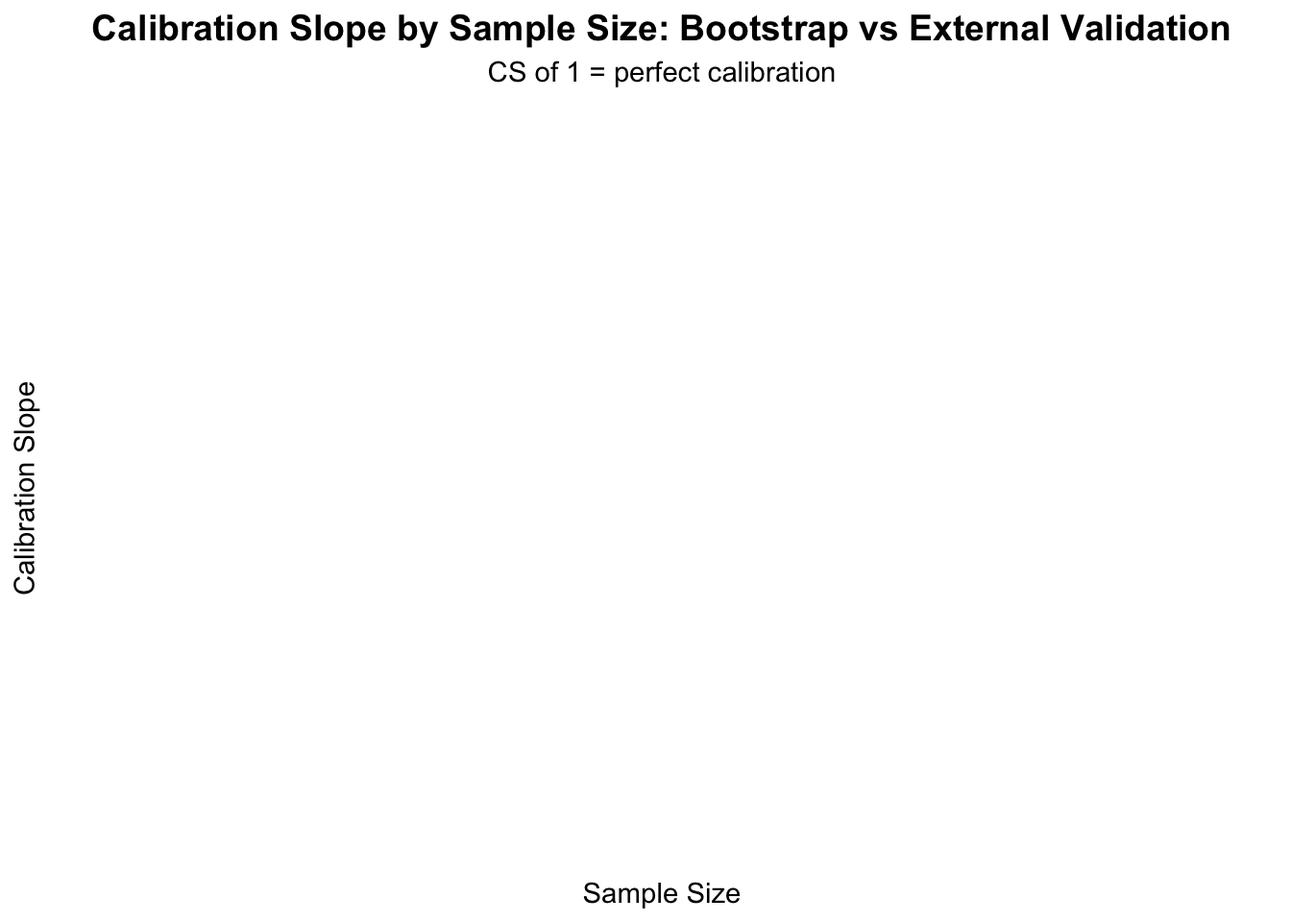
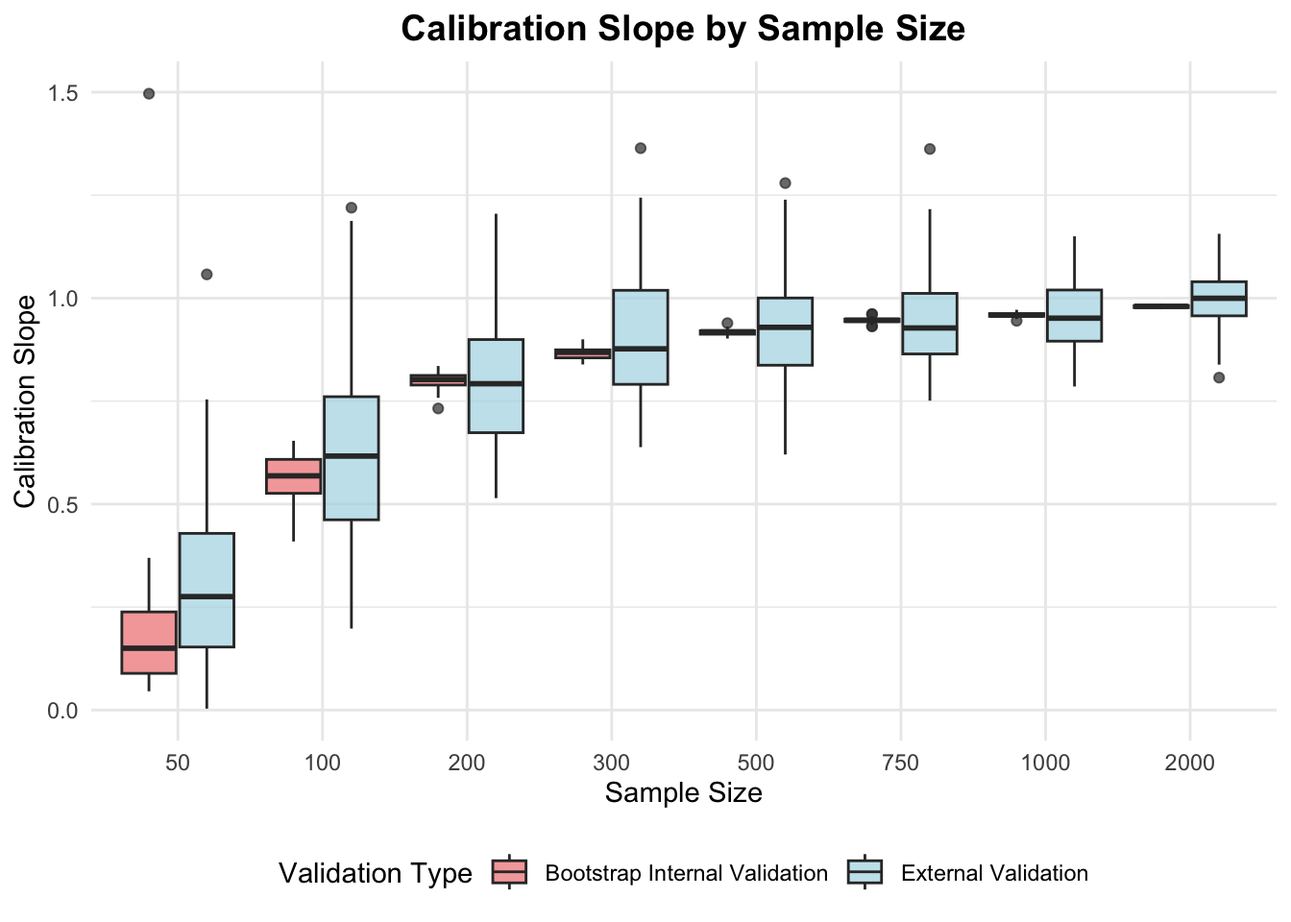
Fix function name references

diff --git a/docs/index.html b/docs/index.html
@@ -200,7 +200,7 @@ Here I focus on model validation to answer the question of whether internal vali
 </div>
 <p>Initial function to generate simulation data; to be used twice, for internal and external validation.</p>
 <div class="cell">
-<div class="sourceCode cell-code" id="cb3"><pre class="sourceCode r code-with-copy"><code class="sourceCode r"><span id="cb3-1"><a href="#cb3-1" aria-hidden="true" tabindex="-1"></a>generate_data <span class="ot">&lt;-</span> <span class="cf">function</span>(n, <span class="at">n_preds =</span> <span class="dv">10</span>, <span class="at">intercept =</span> <span class="sc">-</span><span class="fl">1.5</span>, <span class="at">coef_value =</span> <span class="fl">0.7</span>) {</span>
+<div class="sourceCode cell-code" id="cb3"><pre class="sourceCode r code-with-copy"><code class="sourceCode r"><span id="cb3-1"><a href="#cb3-1" aria-hidden="true" tabindex="-1"></a>gen_data <span class="ot">&lt;-</span> <span class="cf">function</span>(n, <span class="at">n_preds =</span> <span class="dv">10</span>, <span class="at">intercept =</span> <span class="sc">-</span><span class="fl">1.5</span>, <span class="at">coef_value =</span> <span class="fl">0.7</span>) {</span>
 <span id="cb3-2"><a href="#cb3-2" aria-hidden="true" tabindex="-1"></a>  X <span class="ot">&lt;-</span> <span class="fu">matrix</span>(<span class="fu">rnorm</span>(n <span class="sc">*</span> n_preds), <span class="at">nrow =</span> n, <span class="at">ncol =</span> n_preds)</span>
 <span id="cb3-3"><a href="#cb3-3" aria-hidden="true" tabindex="-1"></a>  <span class="fu">colnames</span>(X) <span class="ot">&lt;-</span> <span class="fu">paste0</span>(<span class="st">"x"</span>, <span class="dv">1</span><span class="sc">:</span>n_preds)</span>
 <span id="cb3-4"><a href="#cb3-4" aria-hidden="true" tabindex="-1"></a>  eta <span class="ot">&lt;-</span> intercept <span class="sc">+</span> X <span class="sc">%*%</span> <span class="fu">rep</span>(coef_value, n_preds)</span>
@@ -228,16 +228,18 @@ Here I focus on model validation to answer the question of whether internal vali
 <span id="cb5-7"><a href="#cb5-7" aria-hidden="true" tabindex="-1"></a>  <span class="fu">on.exit</span>(<span class="fu">options</span>(<span class="at">datadist =</span> <span class="cn">NULL</span>))</span>
 <span id="cb5-8"><a href="#cb5-8" aria-hidden="true" tabindex="-1"></a>  </span>
 <span id="cb5-9"><a href="#cb5-9" aria-hidden="true" tabindex="-1"></a>  model_fn <span class="ot">&lt;-</span> <span class="fu">paste</span>(<span class="st">"y ~"</span>, <span class="fu">paste</span>(<span class="fu">paste0</span>(<span class="st">"x"</span>, <span class="dv">1</span><span class="sc">:</span><span class="dv">10</span>), <span class="at">collapse =</span> <span class="st">" + "</span>))</span>
-<span id="cb5-10"><a href="#cb5-10" aria-hidden="true" tabindex="-1"></a>  model <span class="ot">&lt;-</span> <span class="fu">lrm</span>(<span class="fu">as.formula</span>(model_fn), <span class="at">data =</span> train_data, <span class="at">x =</span> <span class="cn">TRUE</span>, <span class="at">y =</span> <span class="cn">TRUE</span>)</span>
-<span id="cb5-11"><a href="#cb5-11" aria-hidden="true" tabindex="-1"></a>  </span>
-<span id="cb5-12"><a href="#cb5-12" aria-hidden="true" tabindex="-1"></a>  ext_cal_slope <span class="ot">&lt;-</span> <span class="fu">calc_cal_slope</span>(model, ext_data)</span>
-<span id="cb5-13"><a href="#cb5-13" aria-hidden="true" tabindex="-1"></a>  boot_val <span class="ot">&lt;-</span> <span class="fu">validate</span>(model, <span class="at">method =</span> <span class="st">"boot"</span>, <span class="at">B =</span> n_boot)</span>
-<span id="cb5-14"><a href="#cb5-14" aria-hidden="true" tabindex="-1"></a>  boot_cal_slope <span class="ot">&lt;-</span> boot_val[<span class="st">"Slope"</span>, <span class="st">"index.corrected"</span>]</span>
-<span id="cb5-15"><a href="#cb5-15" aria-hidden="true" tabindex="-1"></a>  </span>
-<span id="cb5-16"><a href="#cb5-16" aria-hidden="true" tabindex="-1"></a>  <span class="fu">return</span>(<span class="fu">data.frame</span>(<span class="at">sim =</span> sim_id, <span class="at">n_train =</span> n_train, </span>
-<span id="cb5-17"><a href="#cb5-17" aria-hidden="true" tabindex="-1"></a>             <span class="at">ext_cal_slope =</span> ext_cal_slope,</span>
-<span id="cb5-18"><a href="#cb5-18" aria-hidden="true" tabindex="-1"></a>             <span class="at">boot_cal_slope =</span> boot_cal_slope))</span>
-<span id="cb5-19"><a href="#cb5-19" aria-hidden="true" tabindex="-1"></a>}</span></code><button title="Copy to Clipboard" class="code-copy-button"><i class="bi"></i></button></pre></div>
+<span id="cb5-10"><a href="#cb5-10" aria-hidden="true" tabindex="-1"></a>  model <span class="ot">&lt;-</span> <span class="fu">suppressMessages</span>(<span class="fu">suppressWarnings</span>(</span>
+<span id="cb5-11"><a href="#cb5-11" aria-hidden="true" tabindex="-1"></a>    <span class="fu">lrm</span>(<span class="fu">as.formula</span>(model_fn), <span class="at">data =</span> train_data, <span class="at">x =</span> <span class="cn">TRUE</span>, <span class="at">y =</span> <span class="cn">TRUE</span>)</span>
+<span id="cb5-12"><a href="#cb5-12" aria-hidden="true" tabindex="-1"></a>  ))</span>
+<span id="cb5-13"><a href="#cb5-13" aria-hidden="true" tabindex="-1"></a>  </span>
+<span id="cb5-14"><a href="#cb5-14" aria-hidden="true" tabindex="-1"></a>  ext_cal_slope <span class="ot">&lt;-</span> <span class="fu">get_cal_slope</span>(model, ext_data)</span>
+<span id="cb5-15"><a href="#cb5-15" aria-hidden="true" tabindex="-1"></a>  boot_val <span class="ot">&lt;-</span> <span class="fu">validate</span>(model, <span class="at">method =</span> <span class="st">"boot"</span>, <span class="at">B =</span> n_boot)</span>
+<span id="cb5-16"><a href="#cb5-16" aria-hidden="true" tabindex="-1"></a>  boot_cal_slope <span class="ot">&lt;-</span> boot_val[<span class="st">"Slope"</span>, <span class="st">"index.corrected"</span>]</span>
+<span id="cb5-17"><a href="#cb5-17" aria-hidden="true" tabindex="-1"></a>  </span>
+<span id="cb5-18"><a href="#cb5-18" aria-hidden="true" tabindex="-1"></a>  <span class="fu">return</span>(<span class="fu">data.frame</span>(<span class="at">sim =</span> sim_id, <span class="at">n_train =</span> n_train, </span>
+<span id="cb5-19"><a href="#cb5-19" aria-hidden="true" tabindex="-1"></a>             <span class="at">ext_cal_slope =</span> ext_cal_slope,</span>
+<span id="cb5-20"><a href="#cb5-20" aria-hidden="true" tabindex="-1"></a>             <span class="at">boot_cal_slope =</span> boot_cal_slope))</span>
+<span id="cb5-21"><a href="#cb5-21" aria-hidden="true" tabindex="-1"></a>}</span></code><button title="Copy to Clipboard" class="code-copy-button"><i class="bi"></i></button></pre></div>
 </div>
 <p>Main function to call simulations setting errors to NA then filtering out.</p>
 <div class="cell">
@@ -255,9 +257,9 @@ Here I focus on model validation to answer the question of whether internal vali
 <span id="cb6-12"><a href="#cb6-12" aria-hidden="true" tabindex="-1"></a>  </span>
 <span id="cb6-13"><a href="#cb6-13" aria-hidden="true" tabindex="-1"></a>  all_results <span class="ot">&lt;-</span> <span class="fu">do.call</span>(rbind, results)</span>
 <span id="cb6-14"><a href="#cb6-14" aria-hidden="true" tabindex="-1"></a>  all_results <span class="ot">&lt;-</span> all_results[<span class="sc">!</span><span class="fu">is.na</span>(all_results<span class="sc">$</span>ext_cal_slope), ]</span>
-<span id="cb6-15"><a href="#cb6-15" aria-hidden="true" tabindex="-1"></a>  </span>
-<span id="cb6-16"><a href="#cb6-16" aria-hidden="true" tabindex="-1"></a>  <span class="fu">cat</span>(<span class="st">"Completed"</span>, <span class="fu">nrow</span>(all_results), <span class="st">"simulations in"</span>, </span>
-<span id="cb6-17"><a href="#cb6-17" aria-hidden="true" tabindex="-1"></a>      <span class="fu">round</span>(<span class="fu">as.numeric</span>(<span class="fu">Sys.time</span>() <span class="sc">-</span> start_time, <span class="at">units =</span> <span class="st">"secs"</span>), <span class="dv">1</span>), <span class="st">"s</span><span class="sc">\n\n</span><span class="st">"</span>)</span>
+<span id="cb6-15"><a href="#cb6-15" aria-hidden="true" tabindex="-1"></a></span>
+<span id="cb6-16"><a href="#cb6-16" aria-hidden="true" tabindex="-1"></a>  <span class="fu">cat</span>(<span class="st">"Sample size n ="</span>, n_train, <span class="st">"completed in"</span>, </span>
+<span id="cb6-17"><a href="#cb6-17" aria-hidden="true" tabindex="-1"></a>      <span class="fu">round</span>(<span class="fu">as.numeric</span>(<span class="fu">Sys.time</span>() <span class="sc">-</span> start_time, <span class="at">units =</span> <span class="st">"secs"</span>), <span class="dv">1</span>), <span class="st">"seconds</span><span class="sc">\n\n</span><span class="st">"</span>)</span>
 <span id="cb6-18"><a href="#cb6-18" aria-hidden="true" tabindex="-1"></a>  </span>
 <span id="cb6-19"><a href="#cb6-19" aria-hidden="true" tabindex="-1"></a>  <span class="fu">return</span>(all_results)</span>
 <span id="cb6-20"><a href="#cb6-20" aria-hidden="true" tabindex="-1"></a>}</span></code><button title="Copy to Clipboard" class="code-copy-button"><i class="bi"></i></button></pre></div>
@@ -265,66 +267,102 @@ Here I focus on model validation to answer the question of whether internal vali
 <p>Now let’s run the simulation:</p>
 <div class="cell">
 <div class="sourceCode cell-code" id="cb7"><pre class="sourceCode r code-with-copy"><code class="sourceCode r"><span id="cb7-1"><a href="#cb7-1" aria-hidden="true" tabindex="-1"></a>total_start_time <span class="ot">&lt;-</span> <span class="fu">Sys.time</span>()</span>
-<span id="cb7-2"><a href="#cb7-2" aria-hidden="true" tabindex="-1"></a>sample_sizes <span class="ot">&lt;-</span> <span class="fu">c</span>(<span class="dv">50</span>, <span class="dv">100</span>, <span class="dv">200</span>, <span class="dv">300</span>, <span class="dv">400</span>, <span class="dv">500</span>, <span class="dv">750</span>, <span class="dv">1000</span>, <span class="dv">1500</span>, <span class="dv">2000</span>)</span>
+<span id="cb7-2"><a href="#cb7-2" aria-hidden="true" tabindex="-1"></a>sample_sizes <span class="ot">&lt;-</span> <span class="fu">c</span>(<span class="dv">50</span>, <span class="dv">100</span>, <span class="dv">200</span>, <span class="dv">300</span>, <span class="dv">500</span>, <span class="dv">750</span>, <span class="dv">1000</span>, <span class="dv">2000</span>)</span>
 <span id="cb7-3"><a href="#cb7-3" aria-hidden="true" tabindex="-1"></a></span>
 <span id="cb7-4"><a href="#cb7-4" aria-hidden="true" tabindex="-1"></a>all_results <span class="ot">&lt;-</span> <span class="fu">lapply</span>(sample_sizes, <span class="cf">function</span>(n) <span class="fu">run_simulation</span>(n, n))</span></code><button title="Copy to Clipboard" class="code-copy-button"><i class="bi"></i></button></pre></div>
-<div class="cell-output cell-output-stdout">
-<pre><code>Completed 0 simulations in 0 s
-
-Completed 0 simulations in 0 s
-
-Completed 0 simulations in 0 s
-
-Completed 0 simulations in 0 s
-
-Completed 0 simulations in 0 s
-
-Completed 0 simulations in 0 s
-
-Completed 0 simulations in 0 s
-
-Completed 0 simulations in 0 s
-
-Completed 0 simulations in 0 s
-
-Completed 0 simulations in 0 s</code></pre>
+<div class="cell-output cell-output-stderr">
+<pre><code>optimization did not converge for lrm.fit
+singular Hessian matrix
+convergence code 2
+optimization did not converge for lrm.fit
+singular Hessian matrix
+convergence code 2
+optimization did not converge for lrm.fit
+singular Hessian matrix
+convergence code 2
+optimization did not converge for lrm.fit
+singular Hessian matrix
+convergence code 2
+optimization did not converge for lrm.fit
+singular Hessian matrix
+convergence code 2
+optimization did not converge for lrm.fit
+singular Hessian matrix
+convergence code 2
+optimization did not converge for lrm.fit
+singular Hessian matrix
+convergence code 2
+optimization did not converge for lrm.fit
+singular Hessian matrix
+convergence code 2
+optimization did not converge for lrm.fit
+singular Hessian matrix
+convergence code 2</code></pre>
 </div>
-<div class="sourceCode cell-code" id="cb9"><pre class="sourceCode r code-with-copy"><code class="sourceCode r"><span id="cb9-1"><a href="#cb9-1" aria-hidden="true" tabindex="-1"></a><span class="fu">names</span>(all_results) <span class="ot">&lt;-</span> <span class="fu">paste0</span>(<span class="st">"n_"</span>, sample_sizes)</span>
-<span id="cb9-2"><a href="#cb9-2" aria-hidden="true" tabindex="-1"></a></span>
-<span id="cb9-3"><a href="#cb9-3" aria-hidden="true" tabindex="-1"></a>combined_results <span class="ot">&lt;-</span> <span class="fu">do.call</span>(rbind, all_results)</span></code><button title="Copy to Clipboard" class="code-copy-button"><i class="bi"></i></button></pre></div>
+<div class="cell-output cell-output-stdout">
+<pre><code>Sample size n = 50 completed in 18.5 seconds</code></pre>
+</div>
+<div class="cell-output cell-output-stderr">
+<pre><code>optimization did not converge for lrm.fit
+singular Hessian matrix
+convergence code 2
+optimization did not converge for lrm.fit
+singular Hessian matrix
+convergence code 2
+optimization did not converge for lrm.fit
+singular Hessian matrix
+convergence code 2</code></pre>
+</div>
+<div class="cell-output cell-output-stdout">
+<pre><code>Sample size n = 100 completed in 16.7 seconds
+
+Sample size n = 200 completed in 18.8 seconds
+
+Sample size n = 300 completed in 21.3 seconds
+
+Sample size n = 500 completed in 27.1 seconds
+
+Sample size n = 750 completed in 33.5 seconds
+
+Sample size n = 1000 completed in 40.2 seconds
+
+Sample size n = 2000 completed in 66.8 seconds</code></pre>
+</div>
+<div class="sourceCode cell-code" id="cb12"><pre class="sourceCode r code-with-copy"><code class="sourceCode r"><span id="cb12-1"><a href="#cb12-1" aria-hidden="true" tabindex="-1"></a><span class="fu">names</span>(all_results) <span class="ot">&lt;-</span> <span class="fu">paste0</span>(<span class="st">"n_"</span>, sample_sizes)</span>
+<span id="cb12-2"><a href="#cb12-2" aria-hidden="true" tabindex="-1"></a>combined_results <span class="ot">&lt;-</span> <span class="fu">do.call</span>(rbind, all_results)</span></code><button title="Copy to Clipboard" class="code-copy-button"><i class="bi"></i></button></pre></div>
 </div>
 <p>A function to create the boxplot: sample sizes on x-axis and CS on y-axis; 2 series.</p>
 <div class="cell">
-<div class="sourceCode cell-code" id="cb10"><pre class="sourceCode r code-with-copy"><code class="sourceCode r"><span id="cb10-1"><a href="#cb10-1" aria-hidden="true" tabindex="-1"></a>gen_boxplot <span class="ot">&lt;-</span> <span class="cf">function</span>(all_results) {</span>
-<span id="cb10-2"><a href="#cb10-2" aria-hidden="true" tabindex="-1"></a>  plot_data <span class="ot">&lt;-</span> all_results <span class="sc">%&gt;%</span></span>
-<span id="cb10-3"><a href="#cb10-3" aria-hidden="true" tabindex="-1"></a>    <span class="fu">select</span>(sim, n_train, ext_cal_slope, boot_cal_slope) <span class="sc">%&gt;%</span></span>
-<span id="cb10-4"><a href="#cb10-4" aria-hidden="true" tabindex="-1"></a>    <span class="fu">pivot_longer</span>(<span class="at">cols =</span> <span class="fu">c</span>(ext_cal_slope, boot_cal_slope),</span>
-<span id="cb10-5"><a href="#cb10-5" aria-hidden="true" tabindex="-1"></a>                 <span class="at">names_to =</span> <span class="st">"validation_type"</span>, <span class="at">values_to =</span> <span class="st">"cal_slope"</span>) <span class="sc">%&gt;%</span></span>
-<span id="cb10-6"><a href="#cb10-6" aria-hidden="true" tabindex="-1"></a>    <span class="fu">mutate</span>(<span class="at">validation_type =</span> <span class="fu">case_when</span>(</span>
-<span id="cb10-7"><a href="#cb10-7" aria-hidden="true" tabindex="-1"></a>      validation_type <span class="sc">==</span> <span class="st">"ext_cal_slope"</span> <span class="sc">~</span> <span class="st">"External Validation"</span>,</span>
-<span id="cb10-8"><a href="#cb10-8" aria-hidden="true" tabindex="-1"></a>      validation_type <span class="sc">==</span> <span class="st">"boot_cal_slope"</span> <span class="sc">~</span> <span class="st">"Bootstrap Internal Validation"</span>),</span>
-<span id="cb10-9"><a href="#cb10-9" aria-hidden="true" tabindex="-1"></a>      <span class="at">n_train =</span> <span class="fu">factor</span>(n_train)) <span class="sc">%&gt;%</span></span>
-<span id="cb10-10"><a href="#cb10-10" aria-hidden="true" tabindex="-1"></a>    <span class="fu">filter</span>(<span class="sc">!</span><span class="fu">is.na</span>(cal_slope))</span>
-<span id="cb10-11"><a href="#cb10-11" aria-hidden="true" tabindex="-1"></a>  </span>
-<span id="cb10-12"><a href="#cb10-12" aria-hidden="true" tabindex="-1"></a>  <span class="fu">ggplot</span>(plot_data, <span class="fu">aes</span>(<span class="at">x =</span> n_train, <span class="at">y =</span> cal_slope, <span class="at">fill =</span> validation_type)) <span class="sc">+</span></span>
-<span id="cb10-13"><a href="#cb10-13" aria-hidden="true" tabindex="-1"></a>    <span class="fu">geom_boxplot</span>(<span class="at">alpha =</span> <span class="fl">0.7</span>, <span class="at">position =</span> <span class="fu">position_dodge</span>(<span class="fl">0.8</span>)) <span class="sc">+</span></span>
-<span id="cb10-14"><a href="#cb10-14" aria-hidden="true" tabindex="-1"></a>    <span class="fu">scale_fill_manual</span>(<span class="at">values =</span> <span class="fu">c</span>(<span class="st">"External Validation"</span> <span class="ot">=</span> <span class="st">"lightblue"</span>, </span>
-<span id="cb10-15"><a href="#cb10-15" aria-hidden="true" tabindex="-1"></a>                                <span class="st">"Bootstrap Internal Validation"</span> <span class="ot">=</span> <span class="st">"lightcoral"</span>)) <span class="sc">+</span></span>
-<span id="cb10-16"><a href="#cb10-16" aria-hidden="true" tabindex="-1"></a>    <span class="fu">labs</span>(<span class="at">title =</span> <span class="st">"Calibration Slope by Sample Size: Bootstrap vs External Validation"</span>,</span>
-<span id="cb10-17"><a href="#cb10-17" aria-hidden="true" tabindex="-1"></a>         <span class="at">subtitle =</span> <span class="st">"CS of 1 = perfect calibration"</span>,</span>
-<span id="cb10-18"><a href="#cb10-18" aria-hidden="true" tabindex="-1"></a>         <span class="at">x =</span> <span class="st">"Sample Size"</span>, <span class="at">y =</span> <span class="st">"Calibration Slope"</span>, <span class="at">fill =</span> <span class="st">"Validation Type"</span>) <span class="sc">+</span></span>
-<span id="cb10-19"><a href="#cb10-19" aria-hidden="true" tabindex="-1"></a>    <span class="fu">theme_minimal</span>() <span class="sc">+</span></span>
-<span id="cb10-20"><a href="#cb10-20" aria-hidden="true" tabindex="-1"></a>    <span class="fu">theme</span>(<span class="at">plot.title =</span> <span class="fu">element_text</span>(<span class="at">hjust =</span> <span class="fl">0.5</span>, <span class="at">size =</span> <span class="dv">14</span>, <span class="at">face =</span> <span class="st">"bold"</span>),</span>
-<span id="cb10-21"><a href="#cb10-21" aria-hidden="true" tabindex="-1"></a>          <span class="at">plot.subtitle =</span> <span class="fu">element_text</span>(<span class="at">hjust =</span> <span class="fl">0.5</span>, <span class="at">size =</span> <span class="dv">11</span>),</span>
-<span id="cb10-22"><a href="#cb10-22" aria-hidden="true" tabindex="-1"></a>          <span class="at">legend.position =</span> <span class="st">"bottom"</span>)</span>
-<span id="cb10-23"><a href="#cb10-23" aria-hidden="true" tabindex="-1"></a>}</span></code><button title="Copy to Clipboard" class="code-copy-button"><i class="bi"></i></button></pre></div>
+<div class="sourceCode cell-code" id="cb13"><pre class="sourceCode r code-with-copy"><code class="sourceCode r"><span id="cb13-1"><a href="#cb13-1" aria-hidden="true" tabindex="-1"></a>gen_boxplot <span class="ot">&lt;-</span> <span class="cf">function</span>(all_results) {</span>
+<span id="cb13-2"><a href="#cb13-2" aria-hidden="true" tabindex="-1"></a>  plot_data <span class="ot">&lt;-</span> all_results <span class="sc">%&gt;%</span></span>
+<span id="cb13-3"><a href="#cb13-3" aria-hidden="true" tabindex="-1"></a>    <span class="fu">select</span>(sim, n_train, ext_cal_slope, boot_cal_slope) <span class="sc">%&gt;%</span></span>
+<span id="cb13-4"><a href="#cb13-4" aria-hidden="true" tabindex="-1"></a>    <span class="fu">pivot_longer</span>(<span class="at">cols =</span> <span class="fu">c</span>(ext_cal_slope, boot_cal_slope),</span>
+<span id="cb13-5"><a href="#cb13-5" aria-hidden="true" tabindex="-1"></a>                 <span class="at">names_to =</span> <span class="st">"validation_type"</span>, <span class="at">values_to =</span> <span class="st">"cal_slope"</span>) <span class="sc">%&gt;%</span></span>
+<span id="cb13-6"><a href="#cb13-6" aria-hidden="true" tabindex="-1"></a>    <span class="fu">mutate</span>(<span class="at">validation_type =</span> <span class="fu">case_when</span>(</span>
+<span id="cb13-7"><a href="#cb13-7" aria-hidden="true" tabindex="-1"></a>      validation_type <span class="sc">==</span> <span class="st">"ext_cal_slope"</span> <span class="sc">~</span> <span class="st">"External Validation"</span>,</span>
+<span id="cb13-8"><a href="#cb13-8" aria-hidden="true" tabindex="-1"></a>      validation_type <span class="sc">==</span> <span class="st">"boot_cal_slope"</span> <span class="sc">~</span> <span class="st">"Bootstrap Internal Validation"</span>),</span>
+<span id="cb13-9"><a href="#cb13-9" aria-hidden="true" tabindex="-1"></a>      <span class="at">n_train =</span> <span class="fu">factor</span>(n_train)) <span class="sc">%&gt;%</span></span>
+<span id="cb13-10"><a href="#cb13-10" aria-hidden="true" tabindex="-1"></a>    <span class="fu">filter</span>(<span class="sc">!</span><span class="fu">is.na</span>(cal_slope))</span>
+<span id="cb13-11"><a href="#cb13-11" aria-hidden="true" tabindex="-1"></a>  </span>
+<span id="cb13-12"><a href="#cb13-12" aria-hidden="true" tabindex="-1"></a>  <span class="fu">ggplot</span>(plot_data, <span class="fu">aes</span>(<span class="at">x =</span> n_train, <span class="at">y =</span> cal_slope, <span class="at">fill =</span> validation_type)) <span class="sc">+</span></span>
+<span id="cb13-13"><a href="#cb13-13" aria-hidden="true" tabindex="-1"></a>    <span class="fu">geom_boxplot</span>(<span class="at">alpha =</span> <span class="fl">0.7</span>, <span class="at">position =</span> <span class="fu">position_dodge</span>(<span class="fl">0.8</span>)) <span class="sc">+</span></span>
+<span id="cb13-14"><a href="#cb13-14" aria-hidden="true" tabindex="-1"></a>    <span class="fu">scale_fill_manual</span>(<span class="at">values =</span> <span class="fu">c</span>(<span class="st">"External Validation"</span> <span class="ot">=</span> <span class="st">"lightblue"</span>, </span>
+<span id="cb13-15"><a href="#cb13-15" aria-hidden="true" tabindex="-1"></a>                                <span class="st">"Bootstrap Internal Validation"</span> <span class="ot">=</span> <span class="st">"lightcoral"</span>)) <span class="sc">+</span></span>
+<span id="cb13-16"><a href="#cb13-16" aria-hidden="true" tabindex="-1"></a>    <span class="fu">labs</span>(<span class="at">title =</span> <span class="st">"Calibration Slope by Sample Size"</span>,</span>
+<span id="cb13-17"><a href="#cb13-17" aria-hidden="true" tabindex="-1"></a>         <span class="at">x =</span> <span class="st">"Sample Size"</span>, <span class="at">y =</span> <span class="st">"Calibration Slope"</span>, <span class="at">fill =</span> <span class="st">"Validation Type"</span>) <span class="sc">+</span></span>
+<span id="cb13-18"><a href="#cb13-18" aria-hidden="true" tabindex="-1"></a>    <span class="fu">scale_y_continuous</span>(<span class="at">limits =</span> <span class="fu">c</span>(<span class="dv">0</span>, <span class="fl">1.5</span>)) <span class="sc">+</span></span>
+<span id="cb13-19"><a href="#cb13-19" aria-hidden="true" tabindex="-1"></a>    <span class="fu">theme_minimal</span>() <span class="sc">+</span></span>
+<span id="cb13-20"><a href="#cb13-20" aria-hidden="true" tabindex="-1"></a>    <span class="fu">theme</span>(<span class="at">plot.title =</span> <span class="fu">element_text</span>(<span class="at">hjust =</span> <span class="fl">0.5</span>, <span class="at">size =</span> <span class="dv">14</span>, <span class="at">face =</span> <span class="st">"bold"</span>),</span>
+<span id="cb13-21"><a href="#cb13-21" aria-hidden="true" tabindex="-1"></a>          <span class="at">plot.subtitle =</span> <span class="fu">element_text</span>(<span class="at">hjust =</span> <span class="fl">0.5</span>, <span class="at">size =</span> <span class="dv">11</span>),</span>
+<span id="cb13-22"><a href="#cb13-22" aria-hidden="true" tabindex="-1"></a>          <span class="at">legend.position =</span> <span class="st">"bottom"</span>)</span>
+<span id="cb13-23"><a href="#cb13-23" aria-hidden="true" tabindex="-1"></a>}</span></code><button title="Copy to Clipboard" class="code-copy-button"><i class="bi"></i></button></pre></div>
 </div>
 <div class="cell">
-<div class="sourceCode cell-code" id="cb11"><pre class="sourceCode r code-with-copy"><code class="sourceCode r"><span id="cb11-1"><a href="#cb11-1" aria-hidden="true" tabindex="-1"></a>main_plot <span class="ot">&lt;-</span> <span class="fu">gen_boxplot</span>(combined_results)</span>
-<span id="cb11-2"><a href="#cb11-2" aria-hidden="true" tabindex="-1"></a><span class="fu">print</span>(main_plot)</span></code><button title="Copy to Clipboard" class="code-copy-button"><i class="bi"></i></button></pre></div>
+<div class="sourceCode cell-code" id="cb14"><pre class="sourceCode r code-with-copy"><code class="sourceCode r"><span id="cb14-1"><a href="#cb14-1" aria-hidden="true" tabindex="-1"></a>main_plot <span class="ot">&lt;-</span> <span class="fu">gen_boxplot</span>(combined_results)</span>
+<span id="cb14-2"><a href="#cb14-2" aria-hidden="true" tabindex="-1"></a><span class="fu">print</span>(main_plot)</span></code><button title="Copy to Clipboard" class="code-copy-button"><i class="bi"></i></button></pre></div>
 <div class="cell-output cell-output-stderr">
-<pre><code>Warning: No shared levels found between `names(values)` of the manual scale and the
-data's fill values.</code></pre>
+<pre><code>Warning: Removed 4 rows containing non-finite outside the scale range
+(`stat_boxplot()`).</code></pre>
 </div>
 <div class="cell-output-display">
 <div>
@@ -333,10 +371,10 @@ data's fill values.</code></pre>
 </figure>
 </div>
 </div>
-<div class="sourceCode cell-code" id="cb13"><pre class="sourceCode r code-with-copy"><code class="sourceCode r"><span id="cb13-1"><a href="#cb13-1" aria-hidden="true" tabindex="-1"></a>total_runtime <span class="ot">&lt;-</span> <span class="fu">round</span>(<span class="fu">as.numeric</span>(<span class="fu">Sys.time</span>() <span class="sc">-</span> total_start_time, <span class="at">units =</span> <span class="st">"mins"</span>), <span class="dv">1</span>)</span>
-<span id="cb13-2"><a href="#cb13-2" aria-hidden="true" tabindex="-1"></a><span class="fu">cat</span>(<span class="st">"Total runtime:"</span>, total_runtime, <span class="st">"minutes</span><span class="sc">\n</span><span class="st">"</span>)</span></code><button title="Copy to Clipboard" class="code-copy-button"><i class="bi"></i></button></pre></div>
+<div class="sourceCode cell-code" id="cb16"><pre class="sourceCode r code-with-copy"><code class="sourceCode r"><span id="cb16-1"><a href="#cb16-1" aria-hidden="true" tabindex="-1"></a>total_runtime <span class="ot">&lt;-</span> <span class="fu">round</span>(<span class="fu">as.numeric</span>(<span class="fu">Sys.time</span>() <span class="sc">-</span> total_start_time, <span class="at">units =</span> <span class="st">"mins"</span>), <span class="dv">1</span>)</span>
+<span id="cb16-2"><a href="#cb16-2" aria-hidden="true" tabindex="-1"></a><span class="fu">cat</span>(<span class="st">"Total runtime:"</span>, total_runtime, <span class="st">"minutes"</span>)</span></code><button title="Copy to Clipboard" class="code-copy-button"><i class="bi"></i></button></pre></div>
 <div class="cell-output cell-output-stdout">
-<pre><code>Total runtime: 0 minutes</code></pre>
+<pre><code>Total runtime: 4.1 minutes</code></pre>
 </div>
 </div>
 
